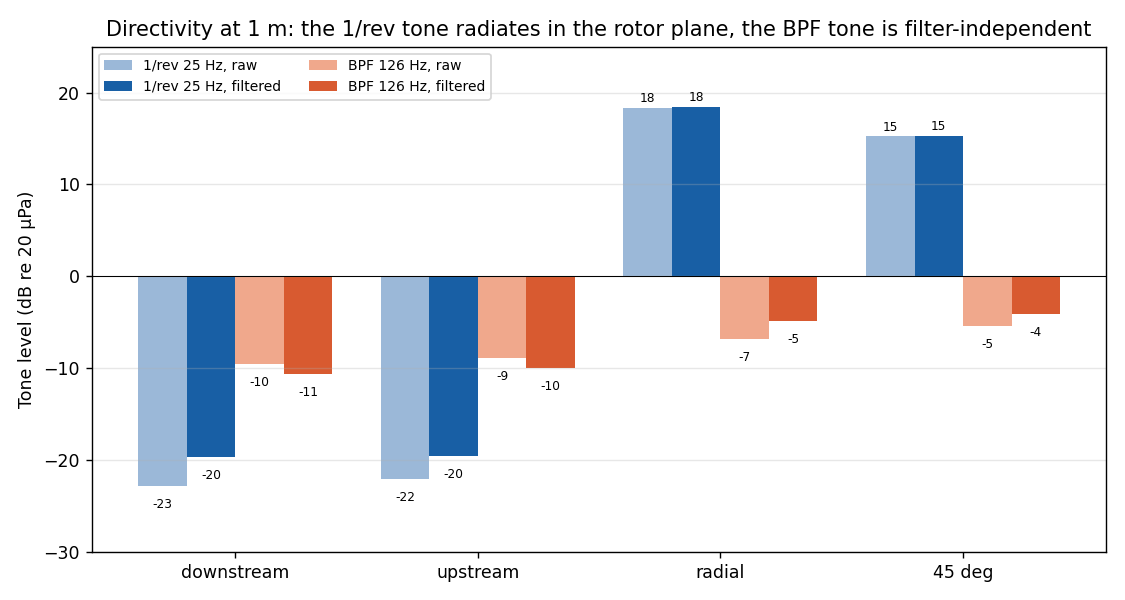
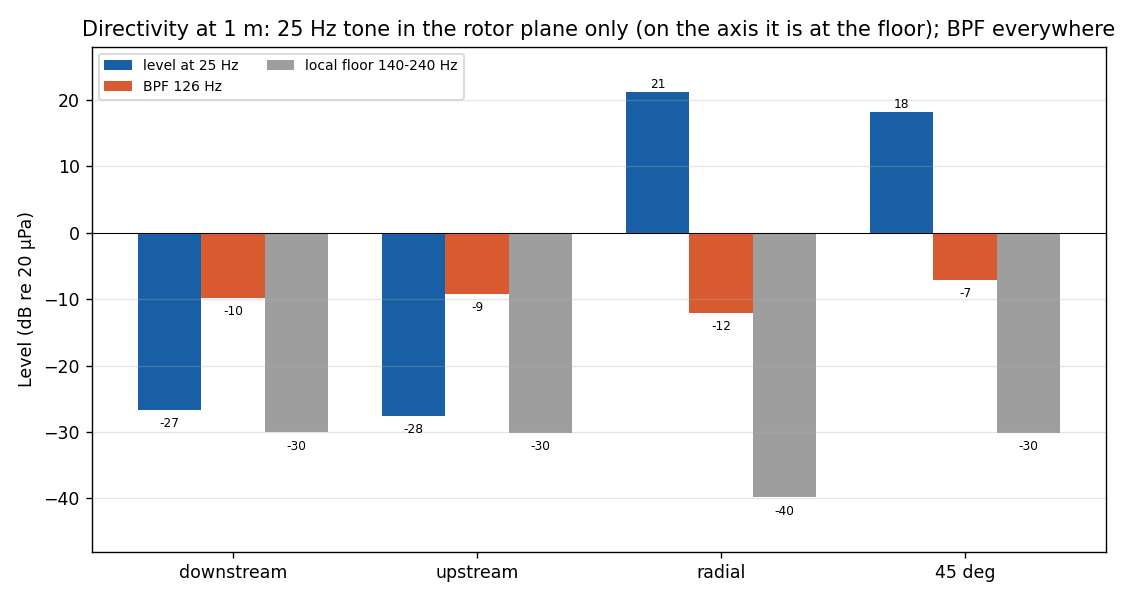
Acoustics: per-record spectra on the raw signal; second review fixes
- The two FW-H records (85 ms each after start-up) were concatenated
  across a 15 ms gap, which put a ~136 deg phase jump into the 25 Hz
  component. Spectra are now computed per record (Hann, zero-padded)
  and power-averaged.
- The 5-point median filter is dropped: the retained segments contain
  no isolated spikes, and the filter raised the floor by 9-24 dB and hid
  the BPF harmonics. Kept only as a check figure.
- New numbers: 25 Hz tone 21 dB radial / 18 dB at 45 deg, at the floor on
  the axis (more than 45 dB apart); BPF 20-28 dB above the local floor on
  all microphones, harmonics at 252 and 378 Hz visible.
- README: Reproduce exports FOAM_SIGFPE=false; flow rate no longer
  claimed as recomputed from data/; Q GIF caption without "one
  revolution"; NCC history and cluster benchmark folded; TODO removed;
  note that the PDF report predates the re-analysis.
- METHODOLOGY section 5 rewritten for the new protocol.
- OpenFOAM case: all comments translated to English (values unchanged).
- render_flow_2d.py: clear message when the slices are missing.

diff --git a/postprocessing/acoustics/post_acoustique_combine.py b/postprocessing/acoustics/post_acoustique_combine.py
@@ -1,8 +1,13 @@
 # -*- coding: utf-8 -*-
-"""Far-field SPL spectrum, directivity and raw-vs-filtered check from the FW-H microphone signals.
+"""Far-field SPL spectrum, tone levels, directivity and raw-vs-filtered check from the FW-H signals.
 
-Concatenates the two FW-H records in data/ (after the start-up transient of each segment),
-applies a Hann window and prints the levels at the shaft frequency, BPF and harmonics, plus OASPL.
+The two FW-H records in data/ (sim time 0.19-0.29 s and 0.29-0.39 s) each lose their first 15 ms
+(FW-H start-up), which leaves two 85 ms segments separated by a 15 ms gap. They are NOT concatenated:
+each segment gets its own Hann-windowed, zero-padded spectrum and the two power spectra are averaged.
+Tone levels are the spectrum peaks within +-6 Hz of the shaft frequency and of the BPF; the local
+floor is the median level between 140 and 240 Hz. Results use the raw signal (mean and linear trend
+removed per segment). A 5-point median filter, used in an earlier version, is kept only as a check:
+the segments contain no isolated spikes, and the filter raises the floor without changing the tones.
 Figures are written to figures/acoustics/.
 """
 from pathlib import Path
@@ -11,105 +16,104 @@ import matplotlib; matplotlib.use("Agg"); import matplotlib.pyplot as plt
 from scipy.signal import medfilt, detrend
 
 REPO = Path(__file__).resolve().parents[2]
-F1 = REPO / "data" / "FWH_helice-time.dat"      # sim time 0.19 -> 0.29 s
-F2 = REPO / "data" / "FWH_helice-time_2.dat"    # sim time 0.29 -> 0.39 s
+RECORDS = [(REPO / "data" / "FWH_helice-time.dat", 0.19),     # (file, sim time at the start of the record)
+           (REPO / "data" / "FWH_helice-time_2.dat", 0.29)]
 OUT = REPO / "figures" / "acoustics"
-PREF = 20e-6; BPF = 125.7; SHAFT = 25.15; T_CUT = 0.015
+PREF = 20e-6; BPF = 125.7; SHAFT = 25.15; T_CUT = 0.015; NFFT = 8192
 mics = ["aval_1m", "amont_1m", "radial_1m", "diag45_1m"]
 names = {"aval_1m": "downstream", "amont_1m": "upstream", "radial_1m": "radial", "diag45_1m": "45 deg"}
 colors = {"aval_1m": "#185FA5", "amont_1m": "#D85A30", "radial_1m": "#0F6E56", "diag45_1m": "#993556"}
 
-d1 = np.loadtxt(F1, skiprows=1); d2 = np.loadtxt(F2, skiprows=1)
-dt = np.median(np.diff(d1[:, 0])); fs = 1 / dt
-
-# keep the valid part of each segment, remove its mean, concatenate
-sig = {m: [] for m in mics}
-for d in (d1, d2):
+segments = []
+for path, t0 in RECORDS:
+    d = np.loadtxt(path, skiprows=1)
     keep = d[:, 0] >= T_CUT
-    for i, m in enumerate(mics):
-        s = d[keep, i + 1]; sig[m].append(s - s.mean())
-for m in mics:
-    sig[m] = np.concatenate(sig[m])
-N = len(sig["aval_1m"]); T = N * dt
-print(f"combined signal: {N} samples, {T*1000:.0f} ms, fs = {fs:.0f} Hz, df = {1/T:.1f} Hz")
+    segments.append(d[keep, 1:])
+dt = np.median(np.diff(np.loadtxt(RECORDS[0][0], skiprows=1)[:, 0]))
+n = len(segments[0])
+print(f"{len(segments)} segments of {n} samples ({n*dt*1000:.0f} ms each), fs = {1/dt:.0f} Hz, "
+      f"resolution {1/(n*dt):.1f} Hz (zero-padded to {NFFT})")
 
-# 5-point median filter removes isolated numerical spikes, then linear detrend
-clean = {m: detrend(medfilt(sig[m], 5), type="linear") for m in mics}
-win = np.hanning(N); cg = win.mean(); f = np.fft.rfftfreq(N, d=dt)
+win = np.hanning(n); cg = win.mean(); f = np.fft.rfftfreq(NFFT, d=dt)
 
 
-def spl_of(x):
-    X = np.fft.rfft(x * win); amp = 2 * np.abs(X) / N / cg; amp[0] /= 2
-    return 20 * np.log10(amp / np.sqrt(2) / PREF + 1e-30)
+def spl_avg(i, filtered):
+    """Average of the per-segment power spectra for microphone column i, in dB re 20 uPa."""
+    power = []
+    for seg in segments:
+        x = seg[:, i] - seg[:, i].mean()
+        if filtered:
+            x = medfilt(x, 5)          # removes isolated numerical spikes
+        x = detrend(x, type="linear")
+        amp = 2 * np.abs(np.fft.rfft(x * win, NFFT)) / n / cg
+        power.append((amp / np.sqrt(2)) ** 2)
+    return 10 * np.log10(np.mean(power, axis=0) / PREF**2 + 1e-30)
 
 
-def level(spl, fc, bw=6):
-    w = np.abs(f - fc) < bw
-    return spl[w].max() if w.any() else np.nan
+def peak(spl, fc, bw=6):
+    w = np.abs(f - fc) <= bw
+    return spl[w].max()
 
 
-# --- SPL spectrum ---
-fig, ax = plt.subplots(figsize=(11, 5.2))
+def floor(spl):
+    return np.median(spl[(f > 140) & (f < 240)])
+
+
 res = {}
+for i, m in enumerate(mics):
+    for kind in ("raw", "filtered"):
+        s = spl_avg(i, kind == "filtered")
+        res[m, kind] = {"spl": s, "shaft": peak(s, SHAFT), "BPF": peak(s, BPF), "floor": floor(s)}
+
+# --- SPL spectrum (raw, average of the two segments) ---
+fig, ax = plt.subplots(figsize=(11, 5.2))
 for m in mics:
-    spl = spl_of(clean[m])
-    ax.plot(f, spl, lw=1.1, color=colors[m], label=f"{names[m]} (1 m)")
-    res[m] = {"shaft": level(spl, SHAFT), "BPF": level(spl, BPF), "2BPF": level(spl, 2 * BPF),
-              "3BPF": level(spl, 3 * BPF), "OASPL": 20 * np.log10(clean[m].std() / PREF)}
+    ax.plot(f, res[m, "raw"]["spl"], lw=1.1, color=colors[m], label=f"{names[m]} (1 m)")
 for k in range(1, 5):
     ax.axvline(BPF * k, color="k", ls="--", lw=0.6, alpha=.5)
-    ax.text(BPF * k, 22, f"{k}xBPF" if k > 1 else "BPF 126 Hz", rotation=90, fontsize=8, va="top", ha="right", alpha=.7)
+    ax.text(BPF * k, 27, f"{k}xBPF" if k > 1 else "BPF 126 Hz", rotation=90, fontsize=8, va="top", ha="right", alpha=.7)
 ax.axvline(SHAFT, color="purple", ls=":", lw=0.9, alpha=.7)
-ax.text(SHAFT, 22, "shaft 25 Hz", rotation=90, fontsize=8, va="top", ha="right", color="purple", alpha=.8)
-ax.set_xlim(0, 700); ax.set_ylim(-45, 28)
+ax.text(SHAFT, 27, "shaft 25 Hz", rotation=90, fontsize=8, va="top", ha="right", color="purple", alpha=.8)
+ax.set_xlim(0, 700); ax.set_ylim(-50, 30)
 ax.set_xlabel("Frequency (Hz)"); ax.set_ylabel("SPL (dB re 20 µPa)")
-ax.set_title(f"Far-field SPL from FW-H, 4 microphones at 1 m ({T*1000:.0f} ms record, Δf = {1/T:.1f} Hz)")
+ax.set_title("Far-field SPL from FW-H at 1 m: average of two 85 ms segments (Hann, zero-padded)")
 ax.grid(alpha=.3); ax.legend(fontsize=9)
 plt.tight_layout(); plt.savefig(OUT / "spl_spectrum.png", dpi=125); plt.close()
 
-# levels from the raw signal (mean removed, detrended), to check what the median filter changes
-raw = {}
-for m in mics:
-    s = spl_of(detrend(sig[m], type="linear"))
-    raw[m] = {"shaft": level(s, SHAFT), "BPF": level(s, BPF), "2BPF": level(s, 2 * BPF),
-              "OASPL": 20 * np.log10(detrend(sig[m], type="linear").std() / PREF)}
-
-# --- directivity: once-per-revolution and BPF tones per microphone, raw and filtered ---
+# --- directivity: shaft-frequency and BPF levels and local floor per microphone (raw) ---
 fig, ax = plt.subplots(figsize=(9, 4.8))
-xk = np.arange(len(mics)); w = 0.2
-series = [("1/rev 25 Hz, raw", [raw[m]["shaft"] for m in mics], "#9BB8D8"),
-          ("1/rev 25 Hz, filtered", [res[m]["shaft"] for m in mics], "#185FA5"),
-          ("BPF 126 Hz, raw", [raw[m]["BPF"] for m in mics], "#F0A88C"),
-          ("BPF 126 Hz, filtered", [res[m]["BPF"] for m in mics], "#D85A30")]
-for j, (lab, vals, col) in enumerate(series):
-    bars = ax.bar(xk + (j - 1.5) * w, vals, w, color=col, label=lab)
+xk = np.arange(len(mics)); w = 0.26
+series = [("level at 25 Hz", "raw", "shaft", "#185FA5"), ("BPF 126 Hz", "raw", "BPF", "#D85A30"),
+          ("local floor 140-240 Hz", "raw", "floor", "#9E9E9E")]
+for j, (lab, kind, key, col) in enumerate(series):
+    vals = [res[m, kind][key] for m in mics]
+    bars = ax.bar(xk + (j - 1) * w, vals, w, color=col, label=lab)
     for b in bars:
         h = b.get_height()
-        ax.text(b.get_x() + b.get_width() / 2, h + (0.6 if h >= 0 else -2.4), f"{h:.0f}", ha="center", fontsize=7)
+        ax.text(b.get_x() + b.get_width() / 2, h + (0.6 if h >= 0 else -2.6), f"{h:.0f}", ha="center", fontsize=7)
 ax.axhline(0, color="k", lw=0.6)
-ax.set_xticks(xk, [names[m] for m in mics]); ax.set_ylabel("Tone level (dB re 20 µPa)")
-ax.set_ylim(-30, 25)
-ax.set_title("Directivity at 1 m: the 1/rev tone radiates in the rotor plane, the BPF tone is filter-independent")
+ax.set_xticks(xk, [names[m] for m in mics]); ax.set_ylabel("Level (dB re 20 µPa)")
+ax.set_ylim(-48, 28)
+ax.set_title("Directivity at 1 m: 25 Hz tone in the rotor plane only (on the axis it is at the floor); BPF everywhere")
 ax.legend(fontsize=8, ncol=2, loc="upper left"); ax.grid(axis="y", alpha=.3)
 plt.tight_layout(); plt.savefig(OUT / "directivity.png", dpi=125); plt.close()
 
 # --- check: raw vs filtered spectrum on the radial microphone ---
 m = "radial_1m"
 fig, ax = plt.subplots(figsize=(11, 4.6))
-ax.plot(f, spl_of(detrend(sig[m], type="linear")), color="0.6", lw=1.0, label="raw (mean removed)")
-ax.plot(f, spl_of(clean[m]), color=colors[m], lw=1.2, label="5-point median filter + detrend")
+ax.plot(f, res[m, "raw"]["spl"], color=colors[m], lw=1.3, label="raw (mean and trend removed), used for the results")
+ax.plot(f, res[m, "filtered"]["spl"], color="#C0392B", lw=1.0, label="with a 5-point median filter (not used)")
 for k in range(1, 4):
     ax.axvline(BPF * k, color="k", ls="--", lw=0.6, alpha=.5)
-ax.set_xlim(0, 700); ax.set_ylim(-45, 28)
+ax.set_xlim(0, 700); ax.set_ylim(-50, 30)
 ax.set_xlabel("Frequency (Hz)"); ax.set_ylabel("SPL (dB re 20 µPa)")
-ax.set_title("Filter check, radial microphone: 1/rev and BPF agree within 2 dB; above 130 Hz the filter adds artifacts")
+ax.set_title("Median-filter check, radial microphone: same 25 Hz tone, but the filter raises the floor by about 24 dB")
 ax.grid(alpha=.3); ax.legend(fontsize=9)
 plt.tight_layout(); plt.savefig(OUT / "raw_vs_filtered.png", dpi=125); plt.close()
 
-print(f"\n{'mic':12}{'shaft25':>9}{'BPF126':>9}{'2xBPF':>9}{'3xBPF':>9}{'OASPL':>9}   (filtered)")
+print(f"\n{'mic':12}{'':10}{'25 Hz':>8}{'BPF':>8}{'floor':>8}{'BPF-floor':>11}")
 for m in mics:
-    r = res[m]; print(f"{m:12}{r['shaft']:9.1f}{r['BPF']:9.1f}{r['2BPF']:9.1f}{r['3BPF']:9.1f}{r['OASPL']:9.1f}")
-print(f"\n{'mic':12}{'shaft25':>9}{'BPF126':>9}{'2xBPF':>9}{'OASPL':>9}   (raw)")
-for m in mics:
-    r = raw[m]; print(f"{m:12}{r['shaft']:9.1f}{r['BPF']:9.1f}{r['2BPF']:9.1f}{r['OASPL']:9.1f}")
+    for kind in ("raw", "filtered"):
+        r = res[m, kind]
+        print(f"{m:12}{kind:10}{r['shaft']:8.1f}{r['BPF']:8.1f}{r['floor']:8.1f}{r['BPF']-r['floor']:11.1f}")
 print(f"\nFigures written to {OUT}")

diff --git a/postprocessing/rendering/render_flow_2d.py b/postprocessing/rendering/render_flow_2d.py
@@ -16,6 +16,10 @@ from scipy.interpolate import griddata
 REPO = Path(__file__).resolve().parents[2]
 VTK_DIR = Path(sys.argv[1] if len(sys.argv) > 1 else os.environ.get("FLOW_VTK", REPO / "data" / "flow_vtk"))
 OUT = REPO / "figures" / "flow"
+if not (VTK_DIR / "meridien.vtp").exists() or not (VTK_DIR / "avalZ.vtp").exists():
+    sys.exit(f"meridien.vtp and avalZ.vtp not found in {VTK_DIR}.\n"
+             "These ParaView slices of the last time step are not published; export them from the case\n"
+             "and pass their folder: python render_flow_2d.py <folder>")
 
 
 def read(path):

diff --git a/README.md b/README.md
@@ -11,8 +11,6 @@ Polytechnia is the engineering consultancy I co-founded in 2026. One of its firs
 
 Skills: OpenFOAM case set-up and debugging (sliding mesh, solver stability), signal processing (FFT, windowing, spike filtering checked against raw), Linux/MPI cluster built and benchmarked, Python/pvpython pipelines.
 
-<!-- TODO Clément: origin of the 1509 rpm (158 rad/s) operating point; the modal study uses 2000 rpm -->
-
 ## Results
 
 | Quantity (established regime, ω = 158 rad/s) | Value | Source |
@@ -20,8 +18,8 @@ Skills: OpenFOAM case set-up and debugging (sliding mesh, solver stability), sig
 | Axial thrust / torque | 43.3 mN / 1.02 mN·m | [`perf_aero.py`](postprocessing/aero/perf_aero.py), [`data/forces_data`](data/forces_data) |
 | Aerodynamic power (torque × ω) | 0.162 W | same |
 | Volume flow rate, 60 mm downstream | 108 m³/h (30 L/s) | same, integrated on the downstream cut |
-| Blade-passing tone (BPF = 5 × 25.15 Hz) | 126 Hz, 12 to 16 dB above the local floor on the axial microphones | [`post_acoustique_combine.py`](postprocessing/acoustics/post_acoustique_combine.py), [`data/`](data) |
-| Strongest tone | 25 Hz (once per revolution), about 38 dB stronger in the rotor plane than on the axis | same |
+| Blade-passing tone (BPF = 5 × 25.15 Hz) | 126 Hz, 20 to 28 dB above the local floor on all four microphones, with harmonics at 252 and 378 Hz | [`post_acoustique_combine.py`](postprocessing/acoustics/post_acoustique_combine.py), [`data/`](data) |
+| Strongest tone | 25 Hz (once per revolution), in the rotor plane only: more than 45 dB above its level on the axis, where it stays at the floor | same |
 
 <p align="center">
   <img src="figures/flow/meridional_velocity.png" width="85%"><br>
@@ -30,10 +28,10 @@ Skills: OpenFOAM case set-up and debugging (sliding mesh, solver stability), sig
 
 <p align="center">
   <img src="figures/acoustics/spl_spectrum.png" width="85%"><br>
-  <em>Far-field SPL at the four microphones (170 ms record, Hann window, Δf = 5.9 Hz). The BPF tone is visible on every microphone; the 25 Hz tone dominates in the rotor plane.</em>
+  <em>Far-field SPL at the four microphones: two 85 ms FW-H records (15 ms start-up removed from each), one Hann-windowed spectrum per record, averaged. The BPF and its first two harmonics appear on every microphone; the 25 Hz tone only in the rotor plane.</em>
 </p>
 
-The 25 Hz tone was not expected for a 5-blade rotor. The force history explains it: the in-plane blade force (about 0.95 mN) rotates with the rotor and oscillates at the shaft frequency, while the thrust fluctuates near the BPF. A rotating in-plane force radiates mostly in the rotor plane, which matches the radial and 45° microphones being 35 to 38 dB louder at 25 Hz than the axial ones. I have not established whether that imbalance is physical (blade-to-blade geometry) or comes from the mesh.
+The 25 Hz tone was not expected for a 5-blade rotor. The force history explains it: the in-plane blade force (about 0.95 mN) rotates with the rotor and oscillates at the shaft frequency, while the thrust fluctuates near the BPF. A rotating in-plane force radiates mostly in the rotor plane, which matches the 25 Hz tone being 21 dB at the radial microphone and 18 dB at 45°, with nothing above the floor on the axis. The tone has the same level and phase in both records, so it is a steady feature of the run. I have not established whether that imbalance is physical (blade-to-blade geometry) or comes from the mesh.
 
 <p align="center">
   <img src="figures/acoustics/directivity.png" width="70%"><br>
@@ -50,7 +48,12 @@ The 25 Hz tone was not expected for a 5-blade rotor. The force history explains 
 - Post-processing ([`postprocessing/`](postprocessing)): Python for the spectra, loads and flow rate; pvpython for the 3-D renders and animations.
 - Compute: a 2-node Linux cluster I set up for this project and for the Code_Aster runs (8 + 4 cores, MPI over Ethernet, shared NFS case directory).
 
+<details>
+<summary>How I got to this setup</summary>
+
 I started at the end of May with steady MRF runs (3000, then 4320 rpm) to get flow rates quickly. For the transient run I first tried the non-conformal coupling (NCC) of OpenFOAM.org. Over six mesh variants (re-ordered interfaces, Delaunay caps, rounded caps) the runs kept stopping in `fvMeshStitcher` around 200 µs of simulated time, so on 12 June I moved to the ESI OpenFOAM and cyclicAMI. The other practical fixes are listed in [`docs/METHODOLOGY.md`](docs/METHODOLOGY.md#6-practical-pitfalls-solved-lessons-learned): serial snappyHexMesh (the parallel run aborted on the AMI zone) and PCG instead of GAMG for the pressure on the coarse mesh.
+
+</details>
 
 ## How it works
 
@@ -62,7 +65,7 @@ FreeCAD → STL → snappyHexMesh + cyclicAMI → pimpleFoam k-ω SST → FW-H (
 
 <p align="center">
   <img src="media/anim_ecoulement_fluide.gif" width="560"><br>
-  <em>Q-criterion vortices shed by the rotating blades over one revolution, coloured by velocity: tip vortices and the helical wake.</em>
+  <em>Q-criterion vortices shed by the rotating blades, coloured by velocity: tip vortices and the helical wake.</em>
 </p>
 
 <p align="center">
@@ -77,13 +80,18 @@ FreeCAD → STL → snappyHexMesh + cyclicAMI → pimpleFoam k-ω SST → FW-H (
 
   <img src="figures/acoustics/blade_loads_time.png" width="80%">
 
-- Results recomputed from `data/`: `perf_aero.py` and `post_acoustique_combine.py` recompute thrust, torque, flow rate and tone levels from the files in [`data/`](data). The values in the Results table come from those runs.
-- Raw vs filtered spectra: the pressure signals carry isolated numerical spikes, which the processing removes with a 5-point median filter. The 25 Hz and BPF levels agree within about 3 dB between raw and filtered signals on every microphone (2 dB or less for the BPF). Above about 130 Hz the filter adds artifacts and removes the 2×BPF peak, so I only claim the two low-frequency tones. The overall level (OASPL) moves by up to 7 dB on the axial microphones depending on filtering, so I do not use it as a result.
+- Results recomputed from `data/`: `perf_aero.py` and `post_acoustique_combine.py` recompute thrust, torque and tone levels from the files in [`data/`](data). The values in the Results table come from those runs; the flow rate needs the ParaView slices, which are not published.
+- Spectrum processing: the two FW-H records are 85 ms each once their start-up is removed, with a 15 ms gap between them. My first version concatenated them, which puts a 136° phase jump into the 25 Hz component, and applied a 5-point median filter against numerical spikes. Re-checking both: the segments contain no isolated spikes (they sit in the discarded start-up), and the filter raised the floor by 9 to 24 dB and hid the BPF harmonics. The spectra are now computed per record and averaged, on the raw signal. The 25 Hz tone has the same level and phase in both records on the radial microphones.
 
   <img src="figures/acoustics/raw_vs_filtered.png" width="80%">
 
 - Mesh quality: `checkMesh` figures and the cells the solver has to tolerate are listed in [`docs/METHODOLOGY.md`](docs/METHODOLOGY.md#3-mesh); their effect on the spectrum has not been measured.
-- Cluster benchmark. On a 0.78 M-cell test case, the gain on one node saturates at 4 cores (1.51× over 1 core, 1.44× on 8). 12 cores across both machines reached 1.93×, at 16 % parallel efficiency. For this AMI case, splitting one run across the two machines gave no gain, so I used the cluster to run independent cases side by side.
+<details>
+<summary>Cluster benchmark</summary>
+
+On a 0.78 M-cell test case, the gain on one node saturates at 4 cores (1.51× over 1 core, 1.44× on 8). 12 cores across both machines reached 1.93×, at 16 % parallel efficiency. For this AMI case, splitting one run across the two machines gave no gain, so I used the cluster to run independent cases side by side.
+
+</details>
 
 ## Limitations
 
@@ -102,7 +110,7 @@ Post-processing, from the repository root (Python 3 with numpy, scipy, matplotli
 ```bash
 python postprocessing/acoustics/post_acoustique_combine.py      # spectra, tone levels, directivity, filter check
 python postprocessing/aero/perf_aero.py                         # thrust, torque, power (+ flow rate if the slices are given)
-python postprocessing/rendering/render_flow_2d.py <flow_vtk>    # needs meridien.vtp and avalZ.vtp exported from ParaView
+python postprocessing/rendering/render_flow_2d.py <flow_vtk>    # needs meridien.vtp and avalZ.vtp exported from ParaView (not published)
 ```
 
 Solver, with OpenFOAM v2406/v2506 (ESI) and [libAcoustics](https://github.com/unicfdlab/libAcoustics), once the STL files are in place:
@@ -114,12 +122,13 @@ blockMesh && surfaceFeatureExtract
 snappyHexMesh -overwrite          # serial: the parallel run aborts on the AMI faceZone
 createBaffles -overwrite          # builds the cyclicAMI pair
 decomposePar
+export FOAM_SIGFPE=false          # the solver aborts at step 1 on degenerate cells otherwise (docs/METHODOLOGY.md, §6)
 mpirun -np 8 pimpleFoam -parallel                    # phase 1, to 0.19 s
 cp system/controlDict.phase2 system/controlDict
 mpirun -np 8 pimpleFoam -parallel                    # phase 2, FW-H recording to 0.39 s
 ```
 
-The full report is in [`docs/report_EN.pdf`](docs/report_EN.pdf), with a French version alongside.
+The full report is in [`docs/report_EN.pdf`](docs/report_EN.pdf), with a French version alongside. It predates the per-record re-analysis above: its acoustic levels come from the concatenated, filtered signal, so use the README values.
 
 ## Credits
 

diff --git a/docs/METHODOLOGY.md b/docs/METHODOLOGY.md
@@ -86,13 +86,23 @@ is preliminary.
 
 ## 5. Acoustic post-processing (FFT protocol)
 
-Two 100 ms FW-H records; the first 15 ms of each are discarded and the rest concatenated into a 0.17 s
-signal (N = 972 points, fs = 5714 Hz). Hann window, single block (no Welch averaging), single-sided
-spectrum, Δf ≈ 6 Hz, no A-weighting. The mean is removed per segment, because the raw signals carry a
-non-zero offset. A 5-point median filter removes isolated numerical spikes; the raw and filtered
-spectra are compared in `figures/acoustics/raw_vs_filtered.png`. The 25 Hz and BPF tones agree within
-about 3 dB; above 130 Hz the filter adds artifacts, and the OASPL depends on the filter by up to 7 dB,
-so neither is used as a result.
+Two 100 ms FW-H records (sim time 0.19-0.29 s and 0.29-0.39 s). The first 15 ms of each are discarded
+(FW-H start-up), which leaves two 85 ms segments (486 points, fs = 5714 Hz) separated by a 15 ms gap.
+Each segment gets its mean and linear trend removed, a Hann window, and a zero-padded FFT (8192 points;
+true resolution 11.8 Hz). The two power spectra are averaged. Single-sided, no A-weighting. Tone levels
+are the peaks within ±6 Hz of 25.15 Hz and 125.7 Hz; the local floor is the median level between 140
+and 240 Hz.
+
+Two earlier choices were dropped after checking them:
+
+- Concatenating the segments: the 15 ms gap introduces a phase jump (about 136° at 25 Hz), which splits
+  and lowers the 25 Hz peak.
+- A 5-point median filter against numerical spikes: the retained segments contain no isolated spikes,
+  and the filter raises the floor by 9 to 24 dB and hides the BPF harmonics
+  (`figures/acoustics/raw_vs_filtered.png`).
+
+The overall level (OASPL) is not reported: absolute levels are underpredicted (incompressible URANS,
+blade-only FW-H surface), so only level differences between microphones and tone-to-floor ratios are used.
 
 Units: in `pimpleFoam`, `p` is a kinematic pressure (m²/s²); conversion to Pa uses p_Pa = ρ·p_kin.
 
